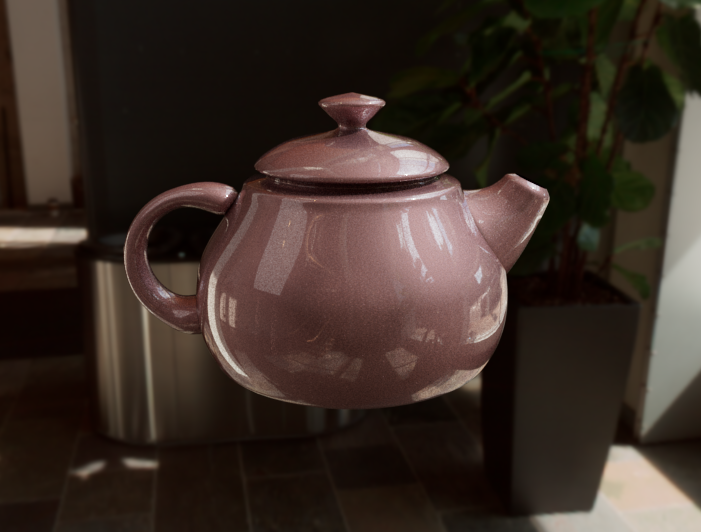
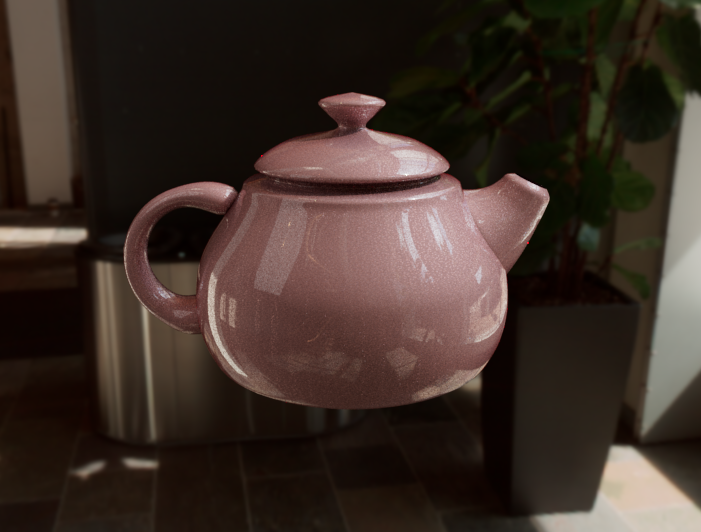
update car paint parameters and example image

diff --git a/presets/car_pearl_paint/car_pearl_paint.md b/presets/car_pearl_paint/car_pearl_paint.md
@@ -13,13 +13,14 @@
 
 -   Dielectric Layer2
 
-    -   roughness 0.3 \* noise1.r
-    -   ior 1.0 + 1.5 \* noise1.r
+    -   roughness 0.2 \* noise1.r
+    -   ior 2.0 - 1.0 \* noise1.r
     -   noise1 parameters:
+        -   depth max 1
         -   amplitude 2.0
         -   frequency 192.0
         -   implode 0.1
-        -   density 0.1
+        -   density 0.06
 
 -   Volumetric Layer
 
